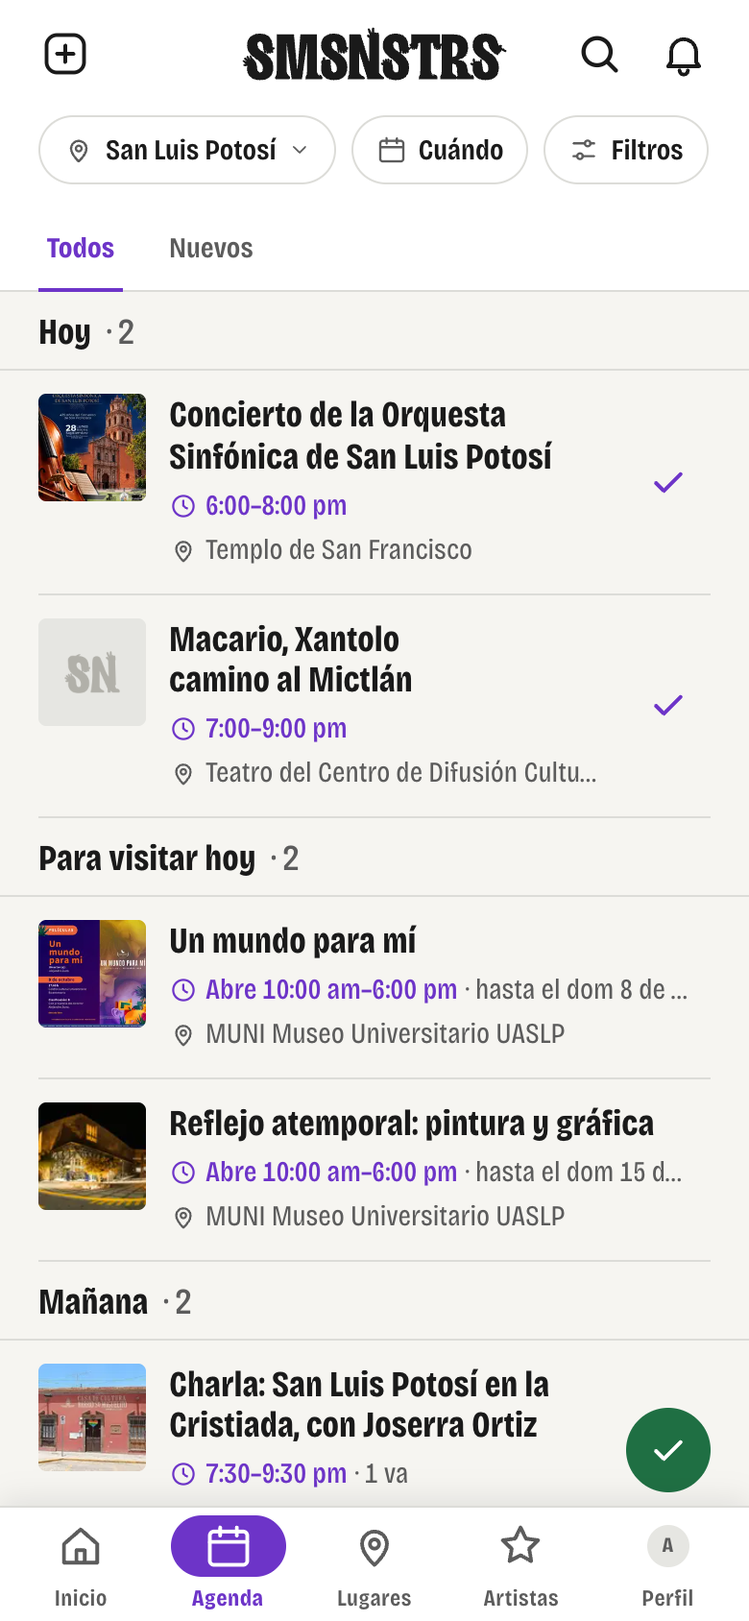
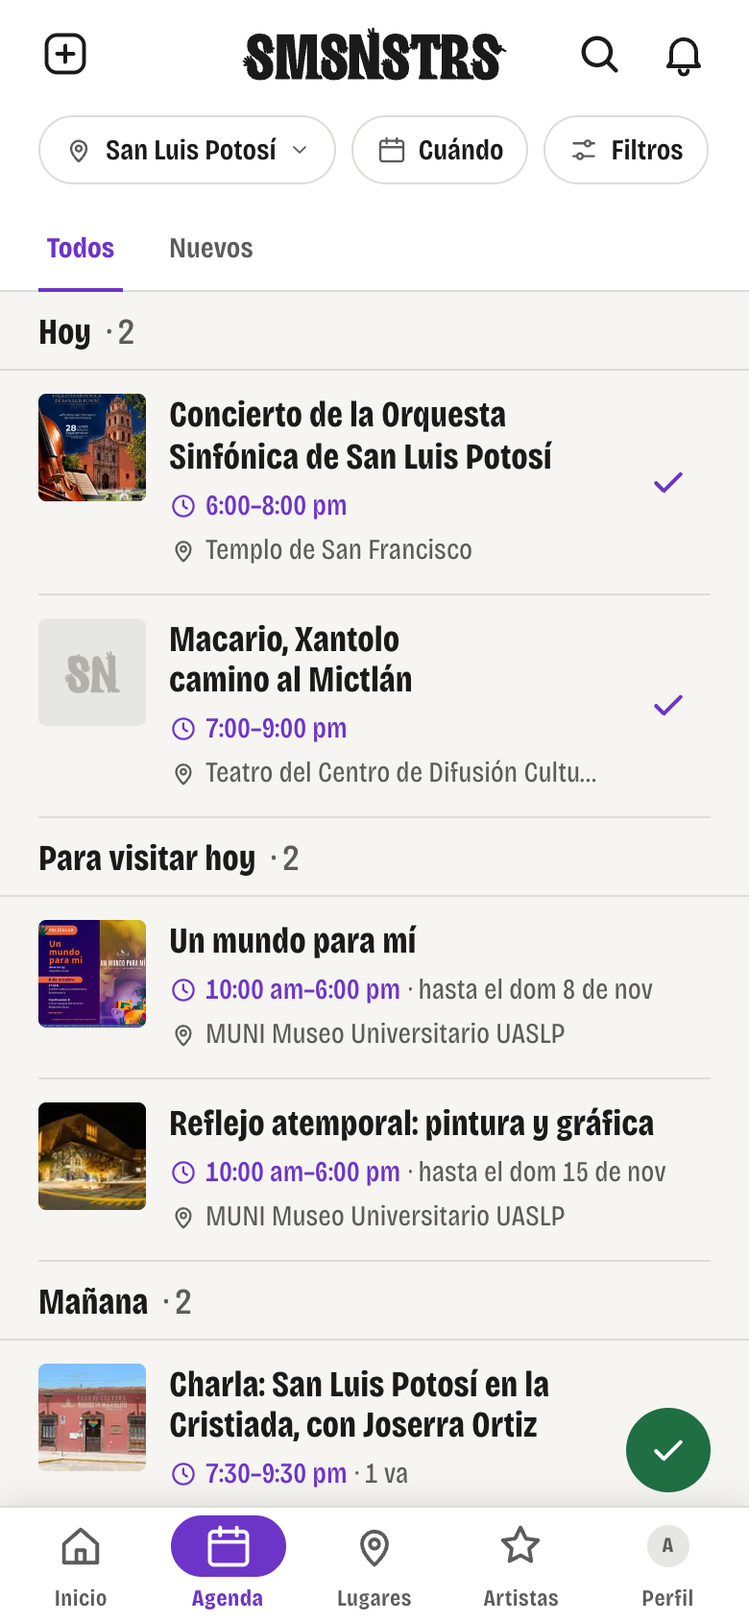
OL-418: «Para visitar» sin «Abre», para que el mes de «hasta el …» quepa a 390 (decisión del founder, 19 de octubre)
- agendaPorClase.cuandoParaVisitar (Agenda, «Para visitar hoy») y eventosFicha.lineaParaVisitar (fichas de lugar y artista): «10:00 am–6:00 pm ·
  hasta el dom 8 de nov», con el reloj delante. «Abre hoy …» se queda donde dice que son las horas de hoy (ficha de la exposición y lista de
  Exposiciones de Agenda, `notaDeVisita`).
- Pruebas al día (agenda, agendaPorClase, eventosFicha y componentes de Agenda por clase).
- Bitácora 451: los «por confirmar» decididos por el founder; capturas 03, 10 y 15 rehechas y 10b nueva (320). OPEN_LOOPS: la línea de OL-418.

Changed region(s): [[0.2769, 0.7085, 0.8923, 0.7393], [0.2769, 0.5853, 0.8923, 0.6161]]

diff --git a/src/lib/eventosFicha.ts b/src/lib/eventosFicha.ts
@@ -1,8 +1,9 @@
 import { agruparPorDia, compararEventos, type EventoAgenda, type Grupo } from "./agenda";
-import { esExposicion, esMarco, esMarcoConPrograma, porCercania, rangosDeVisita, sinHorario, textoAbre, textoHastaEl } from "./agendaPorClase";
+import { esExposicion, esMarco, esMarcoConPrograma, porCercania, rangosDeVisita, sinHorario, textoHastaEl } from "./agendaPorClase";
 import { cuandoDePeriodo, HORARIO_POR_CONFIRMAR, visitaDeEvento } from "./claseEvento";
 import { notaDeClase, PROGRAMA_POR_CONFIRMAR } from "./destacados";
 import { diaLocal, ZONA_INICIAL } from "./fechas";
+import { textoRangos } from "./horarioLugar";
 import { ocurrenciasDeLista } from "./ocurrencias";
 
 /**
@@ -12,7 +13,7 @@ import { ocurrenciasDeLista } from "./ocurrencias";
  * para pintar, así lo que se cuenta es lo que se ve.
  *
  * - **E · «Para visitar»:** una exposición no pasa un día a una hora: va en su grupo, arriba de los días, sin «Voy», con lo que dice de hoy
- *   («Abre 5:00–10:00 pm · hasta el dom 8 de nov», `lineaParaVisitar`); la que está en curso primero, la que cierra antes primero (`porCercania`).
+ *   («5:00–10:00 pm · hasta el dom 8 de nov», `lineaParaVisitar`); la que está en curso primero, la que cierra antes primero (`porCercania`).
  * - **S · cada función en su día:** lo demás se reparte en sus días como en Agenda (`ocurrenciasDeLista`, OL-320): un taller con tres sesiones
  *   sale tres veces, cada una con su hora («6:00–8:00 pm · Sesión 2 de 3»); los días que ya pasaron no salen.
  * - **F · el festival en bloque:** los actos de un festival (con su marco cargado) no salen sueltos: van en el bloque de su festival
@@ -87,9 +88,9 @@ export function cabezaDeBloque(marco: EventoAgenda, funciones: number, de: DeQui
 }
 
 /**
- * Lo que dice una exposición en «Para visitar» de una ficha (OL-409, «E»): abierta, sus horas de hoy con el reloj y hasta cuándo («Abre
- * 17:00–22:00» · «hasta el dom 8 de nov»), «Hoy cierra» si su horario dice que hoy no abre, o «Horario por confirmar»; por abrir, sus días con
- * el calendario («Del 20 de oct al 8 de nov», la regla de todo periodo). Nunca «00:00».
+ * Lo que dice una exposición en «Para visitar» de una ficha (OL-409, «E»): abierta, sus horas de hoy con el reloj y hasta cuándo («5:00–10:00 pm»
+ * · «hasta el dom 8 de nov»; sin «Abre», founder 2026-10-19, OL-418: así cabe el mes a 390 px), «Hoy cierra» si su horario dice que hoy no abre, o
+ * «Horario por confirmar»; por abrir, sus días con el calendario («Del 20 de oct al 8 de nov», la regla de todo periodo). Nunca «00:00».
  */
 export function lineaParaVisitar(e: EventoAgenda, ahora: Date = new Date()): { cuando: string; horas: boolean; nota: string | null } {
   const hoy = diaLocal(ahora, e.zona);
@@ -97,5 +98,5 @@ export function lineaParaVisitar(e: EventoAgenda, ahora: Date = new Date()): { c
   const nota = textoHastaEl(e, ahora);
   if (sinHorario(e)) return { cuando: HORARIO_POR_CONFIRMAR, horas: true, nota };
   const rangos = rangosDeVisita(e, hoy);
-  return { cuando: rangos.length ? textoAbre(rangos) : "Hoy cierra", horas: true, nota };
+  return { cuando: rangos.length ? textoRangos(rangos) : "Hoy cierra", horas: true, nota };
 }

diff --git a/src/lib/agendaPorClase.ts b/src/lib/agendaPorClase.ts
@@ -169,11 +169,14 @@ export function porCercania(a: Vigente, b: Vigente, ahora: Date = new Date()): n
   return instante || compararNombres(a.titulo, b.titulo) || a.id.localeCompare(b.id);
 }
 
-/** «Abre 10:00 am–6:00 pm»: lo que dice el renglón de «Para visitar» (Agenda y fichas), con la hora de toda la app (OL-418). */
+/** «Abre 10:00 am–6:00 pm»: lo que dice de un día que no es hoy la lista de exposiciones (`notaDeVisita`), con la hora de toda la app (OL-418). */
 export const textoAbre = (rangos: readonly Rango[]): string => `Abre ${textoRangos(rangos)}`;
 
-/** El cuándo de un renglón de «Para visitar hoy» (las de `paraVisitarEseDia`): sus horas ese día o, sin horario conocido, «Horario por confirmar». */
-export const cuandoParaVisitar = (e: Exposicion, dia: string): string => (sinHorario(e) ? HORARIO_POR_CONFIRMAR : textoAbre(rangosDeVisita(e, dia)));
+/**
+ * El cuándo de un renglón de «Para visitar hoy» (las de `paraVisitarEseDia`): sus horas ese día, sin «Abre» (el reloj y el grupo ya lo dicen; founder,
+ * 2026-10-19, OL-418: así cabe el mes de «hasta el dom 8 de nov» a 390 px), o, sin horario conocido, «Horario por confirmar».
+ */
+export const cuandoParaVisitar = (e: Exposicion, dia: string): string => (sinHorario(e) ? HORARIO_POR_CONFIRMAR : textoRangos(rangosDeVisita(e, dia)));
 
 /** «hasta el dom 30 de nov», en minúscula: lo que sigue a la hora en «Para visitar hoy». */
 export const textoHastaEl = (e: Exposicion, ahora: Date = new Date()): string => `hasta el ${diaConMesDe(visitaDe(e).hasta, ahora, e.zona)}`;

diff --git a/src/lib/eventosFicha.test.ts b/src/lib/eventosFicha.test.ts
@@ -119,7 +119,7 @@ describe("E · las exposiciones en «Para visitar», sin Voy (OL-410)", () => {
     expect(f.dias.flatMap((g) => g.eventos).some((p) => p.tipo === "renglon" && p.evento.clase === "exposicion")).toBe(false);
   });
   it("abierta: sus horas de hoy con el reloj y hasta cuándo; nunca «00:00»", () => {
-    expect(lineaParaVisitar(fotogramas, ahora)).toEqual({ cuando: "Abre 5:00–10:00 pm", horas: true, nota: "hasta el dom 8 de nov" }); // en 24 h, como las horas de los renglones
+    expect(lineaParaVisitar(fotogramas, ahora)).toEqual({ cuando: "5:00–10:00 pm", horas: true, nota: "hasta el dom 8 de nov" }); // sin «Abre»: así cabe el mes (founder, 2026-10-19, OL-418)
     expect(lineaParaVisitar({ ...fotogramas, horario: [] }, ahora)).toEqual({ cuando: "Horario por confirmar", horas: true, nota: "hasta el dom 8 de nov" });
     expect(lineaParaVisitar(fotogramas, new Date("2026-10-19T18:00:00Z")).cuando).toBe("Hoy cierra"); // lunes
   });

diff --git a/src/lib/agendaPorClase.test.ts b/src/lib/agendaPorClase.test.ts
@@ -78,7 +78,7 @@ describe("«Para visitar»: vigencia, orden y horario", () => {
     // Fuera de su periodo no entra, con horario o sin él: Grabado cerró el 20 y la que no se pudo leer el 9.
     expect(ids(paraVisitarEseDia(TODOS, "2026-10-21"))).toEqual(["ecos", "futura"]);
     expect(textoAbre(rangosDeVisita(ecos, HOY))).toBe("Abre 10:00 am–6:00 pm");
-    expect(cuandoParaVisitar(ecos, HOY)).toBe("Abre 10:00 am–6:00 pm");
+    expect(cuandoParaVisitar(ecos, HOY)).toBe("10:00 am–6:00 pm");
     expect(cuandoParaVisitar(grabado, HOY)).toBe("Horario por confirmar");
     expect(cuandoParaVisitar(sinLeer, HOY)).toBe("Horario por confirmar");
     expect([ecos, grabado, sinLeer, { ...grabado, horario: [{ dias: [], abre: "10:00", cierra: "18:00" }] }].map(sinHorario)).toEqual([false, true, true, true]);

diff --git a/src/lib/agenda.test.ts b/src/lib/agenda.test.ts
@@ -420,7 +420,7 @@ describe("«Para visitar» un día: también las exposiciones sin horario (OL-38
     const visitar = paraVisitarEnAgenda(datos, manana, hoy);
     expect(visitar?.dia).toBe("2026-10-13");
     expect(ids(visitar?.exposiciones)).toEqual(["desierto", "breve", "una-vez-mas"]);
-    expect(visitar?.exposiciones.map((e) => cuandoParaVisitar(e, "2026-10-13"))).toEqual(["Abre 9:00 am–6:00 pm", "Horario por confirmar", "Horario por confirmar"]);
+    expect(visitar?.exposiciones.map((e) => cuandoParaVisitar(e, "2026-10-13"))).toEqual(["9:00 am–6:00 pm", "Horario por confirmar", "Horario por confirmar"]);
     expect(textoHastaEl(unaVezMas, ahora)).toBe("hasta el sáb 14 de nov");
   });
   it("el sábado DESIERTO cierra (tiene horario) y Sabatina abre; las sin horario siguen", () => {

diff --git a/docs/ops/OPEN_LOOPS.md b/docs/ops/OPEN_LOOPS.md
@@ -24,7 +24,7 @@
 
 ## Ahora
 
-- **OL-418 · La hora en «7:00 pm», «actividades» dentro de un festival, una noche de una sola manera y «Función n de N» contando todas (2026-10-19).** Founder: «para formato de hora ya me señaló un usuario que 19:00 hrs era confuso, es mejor usar 7:00 pm Ajusta por favor» y, al aceptar las recomendaciones de la bitácora 446, «actividades» como la palabra de lo de dentro de un festival. Gestor VII, rama `hora-12-y-actividades`, bitácora [451](../bitacora/2026/10/451-hora-12-y-actividades.md), capturas-451. `lib/fechas`: una sola hora para leer (`horaDeReloj`: «7:00 pm», «12:00 pm» mediodía, «12:00 am» medianoche; `rangoDeReloj`: «7:00–9:30 pm», «8:00 pm–2:00 am»; `horasDelEvento`: las horas de un evento en su día, también una noche); listas, Inicio, «Ahora», fichas, horario del lugar y «Para visitar», alta y «Revisa», cartel (sin «h» y con «pm» en minúsculas en las etiquetas en mayúsculas), PDF, push y correo, grafo y Pincel. «Actividades 3» en la banda del festival sin repetirlo en la línea; «N actividades aquí/suyas», «N actividades nuevas», «El cartel trae N actividades», «Publicar el festival y N actividades», «Reúne varias actividades». Una noche: «sáb 17 de oct · 8:00 pm–2:00 am» en listas, «Revisa», avisos, la línea de la ficha y el cuándo de un festival de una noche (sello de un día); el número de la ficha, el día y la hora en que empieza. «Función n de N» lee también las funciones pasadas. Sin migración. lint, typecheck, 4033 unitarias, inventario y medir sin novedades; componentes 617/618 (la de `CampoLargo` es intermitente y ajena). Por confirmar: guion o «a» en los rangos; «Para visitar» a 390 corta el mes de «hasta el …»; el fin de una noche en el número de la ficha; «Reúne varias actividades». Pendiente: revisión del gestor y «publica» del founder.
+- **OL-418 · La hora en «7:00 pm», «actividades» dentro de un festival, una noche de una sola manera y «Función n de N» contando todas (2026-10-19).** Founder: «para formato de hora ya me señaló un usuario que 19:00 hrs era confuso, es mejor usar 7:00 pm Ajusta por favor» y, al aceptar las recomendaciones de la bitácora 446, «actividades» como la palabra de lo de dentro de un festival. Gestor VII, rama `hora-12-y-actividades`, bitácora [451](../bitacora/2026/10/451-hora-12-y-actividades.md), capturas-451. `lib/fechas`: una sola hora para leer (`horaDeReloj`: «7:00 pm», «12:00 pm» mediodía, «12:00 am» medianoche; `rangoDeReloj`: «7:00–9:30 pm», «8:00 pm–2:00 am»; `horasDelEvento`: las horas de un evento en su día, también una noche); listas, Inicio, «Ahora», fichas, horario del lugar y «Para visitar», alta y «Revisa», cartel (sin «h» y con «pm» en minúsculas en las etiquetas en mayúsculas), PDF, push y correo, grafo y Pincel. «Actividades 3» en la banda del festival sin repetirlo en la línea; «N actividades aquí/suyas», «N actividades nuevas», «El cartel trae N actividades», «Publicar el festival y N actividades», «Reúne varias actividades». Una noche: «sáb 17 de oct · 8:00 pm–2:00 am» en listas, «Revisa», avisos, la línea de la ficha y el cuándo de un festival de una noche (sello de un día); el número de la ficha, el día y la hora en que empieza. «Función n de N» lee también las funciones pasadas. Sin migración. lint, typecheck, 4033 unitarias, inventario y medir sin novedades; componentes 617/618 (la de `CampoLargo` es intermitente y ajena). El founder aceptó los por confirmar (2026-10-19): guion en los datos y «de … a …» en las frases, el número de la fecha solo con el inicio, «Reúne varias actividades» y, en código, «Para visitar» sin «Abre» («10:00 am–6:00 pm · hasta el dom 8 de nov», el mes entero a 390). Pendiente: revisión del gestor y «publica» del founder.
 - **OL-415 · Higiene tras la revisión de la semana: guarda de `.env`, asistentes inventados en el grafo, `npm audit`, fuera «Pronto» y letreros sin «ficha» (2026-10-19).** Founder: «Adelante» a la pieza de higiene que el gestor propuso tras la revisión de la bitácora 446 (antecedente suyo del 14 de octubre: «no se entiende ficha puede decir: Ver más información»). Gestor VII, rama `higiene-revision-446`, bitácora [447](../bitacora/2026/10/447-higiene-revision-446.md), capturas-447, sin migración. (1) `capturar-cartel-leido.mjs` y `capturar-persona-publicado.mjs` se niegan a correr con un `.env` en la raíz del árbol (la guarda de `maqueta-pantalla.mjs`). (2) `docs/rediseno/prototipos/grafo-3d.html`: lugares, artistas, eventos y sus líneas públicas siguen siendo los del 12 de octubre; asistentes, sus líneas y sus días, los seguimientos por nodo y los contadores que dependen de personas, inventados con un generador de semilla fija (14 asistentes, 390 líneas; ninguna asistencia cae en un lugar o artista y día reales), con `"personasInventadas": true` y un comentario al principio; el historial de git conserva la versión anterior y reescribirlo lo decide el founder. (3) `npm audit fix` sin `--force`: solo `package-lock.json`; `source-map-js` 1.2.2; `satori` se queda en 0.35.1 porque la 0.35.2 que trajo el audit rompe los carteles (`__dirname` en su ESM); `npm audit --omit=dev` de 3 (2 moderadas, 1 alta) a 2 moderadas (`fflate` vía `satori`). (4) Fuera «Preparar una reseña · Pronto» de la hoja de Presentación, con sus estilos. (5) «Ver más información» en vez de «Ver ficha» y «Abrir la ficha completa»; «Ya está publicado · Verlo» (y «Ya lo tienes guardado · Verlo», «… en {ciudad} · Verlo») en las altas de lugar y artista; «Verlo» en «¿Es este?»: **por confirmar**, con la lista de los 76 textos con «ficha» que quedan para que decida el founder. lint, typecheck, 4 021 pruebas, inventario y medir en verde; pruebas de componentes nuevas o al día (DocumentoPdf, HojaDonde, HojaLugares, AltaLugar, AltaArtista). **Lista para la revisión del gestor: rama subida, sin PR.**
 - **OL-417 · Propuesta: ciudades nuevas, ubicación primero y boletín por región (2026-10-19).** Founder: «conviene primero identificar lugares en cada ciudad, luego darlos de alta, después identificar agendas culturales que compilen los eventos […] además busca un catalogo como el de CAPO por ciudad», «agregues al admin un listado de [ciudades] abiertas, con un botón para buscar/registrar sus lugares, buscar eventos y buscar artistas, esos botones yo los detono para que se corran con api», «amigxs y Somos Nosotrxs en toda la app», «Boletín para todos […] con clara la opción de des suscribirse», contenido «usando criterios de inicio y distinguiendo por estado», «ya no debe ser default que se presente San Luis Potosí como ciudad de inicio, se pregunta ubicación». Gestor VII, rama `ciudades-propuesta`, bitácora [450](../bitacora/2026/10/450-ciudades-propuesta.md), doc [57](../rediseno/57-ciudades-ubicacion-boletin.md): estado actual comprobado, ocho áreas de oportunidad y la propuesta en cuatro partes (Inicio con «¿Dónde estás?» y ciudad en la cuenta, Administración › Ciudades con tres botones y bandeja de propuestas en el servidor, boletín por región para todos con baja de un clic, marca «Somos Nosotrxs») con siete piezas en orden y cinco preguntas para la firma. **Firma parcial la misma tarde:** preguntar solo sin última ubicación conocida; la ciudad de la cuenta cambia con la persona y el boletín la sigue; sin ciudad no hay boletín; se retracta de «para todos» (cuentas nuevas encendidas, una pregunta en la app a las existentes, privacidad actualizada). Solo documento: no autoriza código.
 - **OL-414 · Administración › Personas: las fotos más grandes y «Lo que publicó» con cada ficha (2026-10-18).** Founder: «ayúdame a hacer que desde el panel de admin pueda ver las fotos de usuarios más grandes, también quisiera saber qué publicaron. Ahora solo dice: publicó 2 pero no puedo ver que». Gestor VI, rama `admin-persona-publicado`, bitácora [445](../bitacora/2026/10/445-admin-persona-publicado.md), capturas-445. La ficha de administración de una persona pone la foto a 144 px arriba y al centro (`calc(var(--avatar-perfil) * 2)`) y al tocarla la abre entera y acercable en `VisorImagen` (`FotoPersona`); la lista de Personas, a 56 (`--foto-renglon`); las dos con `ui/Imagen` del tamaño que se ve (antes bajaban el original). Sin foto, la inicial. «Lo que publicó», entre Actividad y Rol: un rótulo por tipo con su cuenta y cada cosa con `ui/Renglon` (un evento con su día y su lugar, un acto con «acto de …», un lugar con su tipo, un artista con su disciplina), las etiquetas de lo que el público no ve y el enlace a su ficha pública (Administración no tiene ficha propia de una ficha; las listas del panel también abren la pública); 20 por tipo y «Ver más» sin apilar historial. El renglón «Publicó» baja ahí con `ui/Salto` y su número sale del `count` de la misma lectura (`cargarPublicado`: `creado_por` = la persona con la sesión de quien administra, como las listas del panel; cuenta lo mismo que `panel_persona` y `panel_personas`). **Sin migración.** El respaldo local contesta `panel_personas`, `panel_personas_conteos` y `panel_persona`, y con `RESPALDO_PERSONAS=1` suma fotos y lo publicado de Ana; la ficha de Ana como admin entra a `npm run medir` (`s31-admin-persona`). lint, typecheck, test, inventario y medir en verde.

diff --git a/docs/bitacora/2026/10/451-hora-12-y-actividades.md b/docs/bitacora/2026/10/451-hora-12-y-actividades.md
@@ -35,7 +35,7 @@ Todo lo que se lee pasa por ahí:
 | Inicio: tarjetas, fila «Ahora» (círculos e historias) | sáb 24 de oct · 12:00 · «20:00» · «Desde 17:30» | … · 12:00 pm · «8:00 pm» · «Desde 5:30 pm» | `destacados.ts`, `ahora.ts` (por `horaCorta`) |
 | Número de la fecha en la ficha | 20:00 / sáb 17 oct – dom 18 oct | 8:00 pm / sáb 17 oct | `ficha.ts` |
 | Línea bajo el título (taller, festival sin programa) | jue 8 de oct · 17:00 | jue 8 de oct · 5:00–7:00 pm | `claseEvento.ts` |
-| Horario del lugar y «Para visitar» | Abre 10:00–18:00 / 10:00 a.m.–6:00 p.m. | Abre 10:00 am–6:00 pm | `horarioLugar.ts`, `agendaPorClase.ts` |
+| Horario del lugar y «Para visitar» | Abre 10:00–18:00 · hasta el dom 8 de nov / 10:00 a.m.–6:00 p.m. | 10:00 am–6:00 pm · hasta el dom 8 de nov (sin «Abre», decisión del founder abajo) | `horarioLugar.ts`, `agendaPorClase.ts`, `eventosFicha.ts` |
 | Número «Hoy» de una exposición | 10:00–18:00 | 10:00 am–6:00 pm | `claseEvento.kpisDeExposicion` |
 | Alta por pasos: chips, «cada día de…», horarios por día, «Revisa» | 7:00 p.m. · de 8:00 p.m. a 9:00 p.m. · 20:00 → sáb 31 · 02:00 | 7:00 pm · de 8:00 a 9:00 pm · vie 30 de oct · 8:00 pm–2:00 am | `calendario.ts`, `cuandoEvento.ts`, `sesionesEvento.ts`, `fechas.ts` |
 | Sesiones en la ficha y en «A mi calendario» | vie 9 de oct · 20:00–21:00 | vie 9 de oct · 8:00–9:00 pm | `sesionesEvento.ts` |
@@ -95,22 +95,33 @@ película en tres funciones) sigue diciendo «Función»: son funciones de una m
 2. **El número de la fecha dice dónde empieza una noche, no su rango.** Ver 3; la línea bajo el título, las listas y «Revisa» dicen el rango.
 3. **La cabecera del festival dice el número una vez:** el número de la banda (firmado en OL-351, tres números) se queda y la línea deja de repetirlo.
 4. **«Reúne varias presentaciones.»** era la definición que el founder aprobó el 18 de octubre; se cambia por «Reúne varias actividades.» para
-   que sea la misma palabra (por confirmar abajo).
+   que sea la misma palabra (el founder lo aceptó, abajo).
 
-## Por confirmar
+## Lo que estaba por confirmar (decidido por el founder, 19 de octubre)
 
-1. **El formato de los rangos.** El encargo pide «8:00 pm–2:00 am» (guion corto, sin espacios); el plan de la 449 escribió «8:00 pm a 2:00 am».
-   Quedó el guion, que es el de todos los rangos de la app. En las frases del alta sigue «de 8:00 a 9:00 pm» («cada día de…», horarios por día).
-2. **«Para visitar» a 390 px:** «Abre 10:00 am–6:00 pm · hasta el dom 8 de …» ya no cabe entero y se corta el mes (con 24 h cabía; OL-410 había
-   elegido 24 h justo por esto). Opciones: quitar «Abre» (el reloj ya lo dice) o el día de la semana de «hasta el …». Captura 10.
-3. **El número de la fecha de un evento suelto de una noche** dice «8:00 pm» y «sáb 17 oct»: su fin solo sale en las listas, «Revisa», los avisos
-   y la línea de un festival. Si se quiere arriba, cabe en dos renglones como el de varios días.
-4. **«Reúne varias actividades.»** en «¿Qué es?» (texto de la definición aprobada).
-5. **La etiqueta del número con un rango a 320 px** («11:00 am–2:00 pm») corta la primera hora («11:00 a…» / «2:00 pm»); antes, en 24 h,
-   también se cortaba. Captura 13.
+El founder aceptó los «por confirmar» como los recomendó el gestor, con un cambio en código:
+
+1. **El formato de los rangos:** se queda el guion en los datos («8:00 pm–2:00 am», el de todos los rangos de la app; el plan de la 449 había
+   escrito «8:00 pm a 2:00 am») y «de … a …» en las frases del alta («cada día de 8:00 a 9:00 pm», horarios por día).
+2. **«Para visitar» sin «Abre» (el cambio en código).** Con la hora en 12 horas, «Abre 10:00 am–6:00 pm · hasta el dom 8 de …» ya no cabía a 390
+   px y se cortaba el mes (OL-410 había elegido 24 h justo por esto). Decisión del founder: quitar la palabra «Abre» en el renglón de «Para
+   visitar», en las fichas de lugar y artista (`eventosFicha.lineaParaVisitar`) y en Agenda («Para visitar hoy», `agendaPorClase.cuandoParaVisitar`):
+   **«10:00 am–6:00 pm · hasta el dom 8 de nov»**, con el reloj delante. A 390 el mes ya se lee entero (capturas 03 y 10); a 320 se sigue
+   cortando «hasta el do…», como antes en 24 h (capturas 10b y 15). No cambia lo que dice una exposición en otro renglón: «Abre hoy 10:00 am–6:00
+   pm» en su ficha (`textoHoy`) y en la lista de Exposiciones de Agenda (`notaDeVisita`, tras «Hasta el …»), donde «Abre» dice que esas horas son
+   las de hoy.
+3. **El recuadro de la fecha** de un evento suelto de una noche se queda solo con el inicio («8:00 pm» y «sáb 17 oct»); el fin lo dicen las listas,
+   «Revisa», los avisos y la línea de un festival.
+4. **«Reúne varias actividades.»** se queda en «¿Qué es?».
+5. **La etiqueta del número con un rango a 320 px** («11:00 a…» / «2:00 pm») se queda como está: también se cortaba en 24 h. Captura 13.
 
 ## Verificación
 
+**Segunda vuelta (sin «Abre» en «Para visitar», 19 de octubre):** lint (sin errores), typecheck, las unitarias de `horarioLugar`, `agendaPorClase`,
+`agenda`, `eventosFicha` y `claseEvento` (148) y las de componentes de Agenda por clase y de la hoja de Lugares (22) en verde; capturas 03, 10,
+10b y 15 rehechas.
+
+**Primera vuelta:**
 En el árbol sin `.env`: `npm run lint` (sin errores; un aviso viejo en `VisorImagen.componentes.test.mjs`), `npm run typecheck`, `npm test`
 (228 archivos, **4033 pruebas** en verde), `npm run inventario` (sin novedades) y `npm run medir` (41 pantallas × 4 anchos, **sin novedades**:
 la línea base no cambia). `npm run test:componentes`: 617 de 618; la que falla, «el teclado ya estaba abierto al tocar el renglón»
@@ -129,7 +140,8 @@ respaldo fuera del repo). La lectura del cartel, simulada.
 
 1. `01-inicio.png`: «Ahora» con «6:00 pm» y «7:00 pm» bajo los círculos; la tarjeta «sáb 24 de oct · 12:00 pm».
 2. `02-inicio-festival-de-una-noche.png`: «Festivales y expos» con Noche cumbiera: sello «17» (un día) y «mañana · 8:00 pm».
-3. `03-agenda.png`: «6:00–8:00 pm», «7:00–9:00 pm», «Abre 10:00 am–6:00 pm · hasta el dom 8 de …» (el corte del punto 2), «7:30–9:30 pm».
+3. `03-agenda.png`: «6:00–8:00 pm», «7:00–9:00 pm», «Para visitar hoy» con «10:00 am–6:00 pm · hasta el dom 8 de nov» y «… · hasta el dom 15
+   de nov» enteros (sin «Abre»), «7:30–9:30 pm».
 4. `04-agenda-noche.png`: Noche cumbiera «8:00 pm–2:00 am»; «10:00 am–12:00 pm»; «5:00–7:00 pm · Sesió…».
 5. `05-ficha-festival-una-noche.png`: la línea «sáb 17 de oct · 8:00 pm–2:00 am · Foro lunaria» y el número «8:00 pm» / «sáb 17 oct».
 6. `06-ficha-festival-con-programa.png`: «Del 25 al 27 de oct» y el número «ACTIVIDADES 3» (sin «Programa registrado» en la línea).
@@ -137,12 +149,14 @@ respaldo fuera del repo). La lectura del cartel, simulada.
 8. `08-ficha-lugar-actividades-aqui.png`: Foro lunaria: Noche cumbiera «8:00 pm–2:00 am» y el bloque «lun 19 de oct · 8:00 pm–2:00 am · 2
    actividades aquí». (En la del Centro Cultural Universitario Bicentenario se lee «Del 25 al 27 de oct · 2 actividades aquí».)
 9. `09-ficha-lugar-horario.png`: MUNI: «Ma–Do / 10:00 am–6:00 pm / Cierra Lu» y «7:00–10:00 pm · 2 van».
-10. `10-ficha-lugar-para-visitar.png`: «Para visitar» del MUNI con «Abre 10:00 am–6:00 pm · hasta el dom 8 de …».
+10. `10-ficha-lugar-para-visitar.png`: «Para visitar» del MUNI con «10:00 am–6:00 pm · hasta el dom 8 de nov» y «… · hasta el dom 15 de nov»,
+    el mes entero a 390.
+    `10b-ficha-lugar-para-visitar-320.png`: lo mismo a 320: «10:00 am–6:00 pm · hasta el do…» (se corta, como en 24 h).
 11. `11-ficha-funcion-3-de-4.png`: «FUNCIÓN 3 DE 4» (dos ya pasaron), el número «7:00 pm» / «dom 18 oct» y «Otras funciones» con la que viene.
 12. `12-ficha-varios-dias-am-pm.png`: el número «11:00 am–» / «2:00 pm» en dos renglones y «Del 21 al 23 de oct».
 13. `13-ficha-varios-dias-am-pm-320.png`: lo mismo a 320 («11:00 a…» / «2:00 pm», punto 5).
 14. `14-ficha-exposicion-hoy.png`: Ecos de papel: «HOY 10:00 am–» / «6:00 pm».
-15. `15-agenda-320.png`: Agenda a 320.
+15. `15-agenda-320.png`: Agenda a 320: «Para visitar hoy» con «10:00 am–6:00 pm · hasta el do…».
 16. `16-alta-revisa-madrugada.png`: «Revisa» de Cumbiachella: «vie 30 de oct · 8:00 pm–2:00 am» (antes «20:00 → sáb 31 · 02:00»).
 17. `17-cartel-con-hora.png`: cuatro carteles generados (`CARTELES_SALIDA` de `dibujar.test.ts`): «7:00 pm» en el sol, «SON HUASTECO · VIE 16
     OCT · 7:00 pm» en la etiqueta en mayúsculas, la franja «VIE 16 OCT · 7:00 pm» y «10:00 am» en el boleto de varios días.
